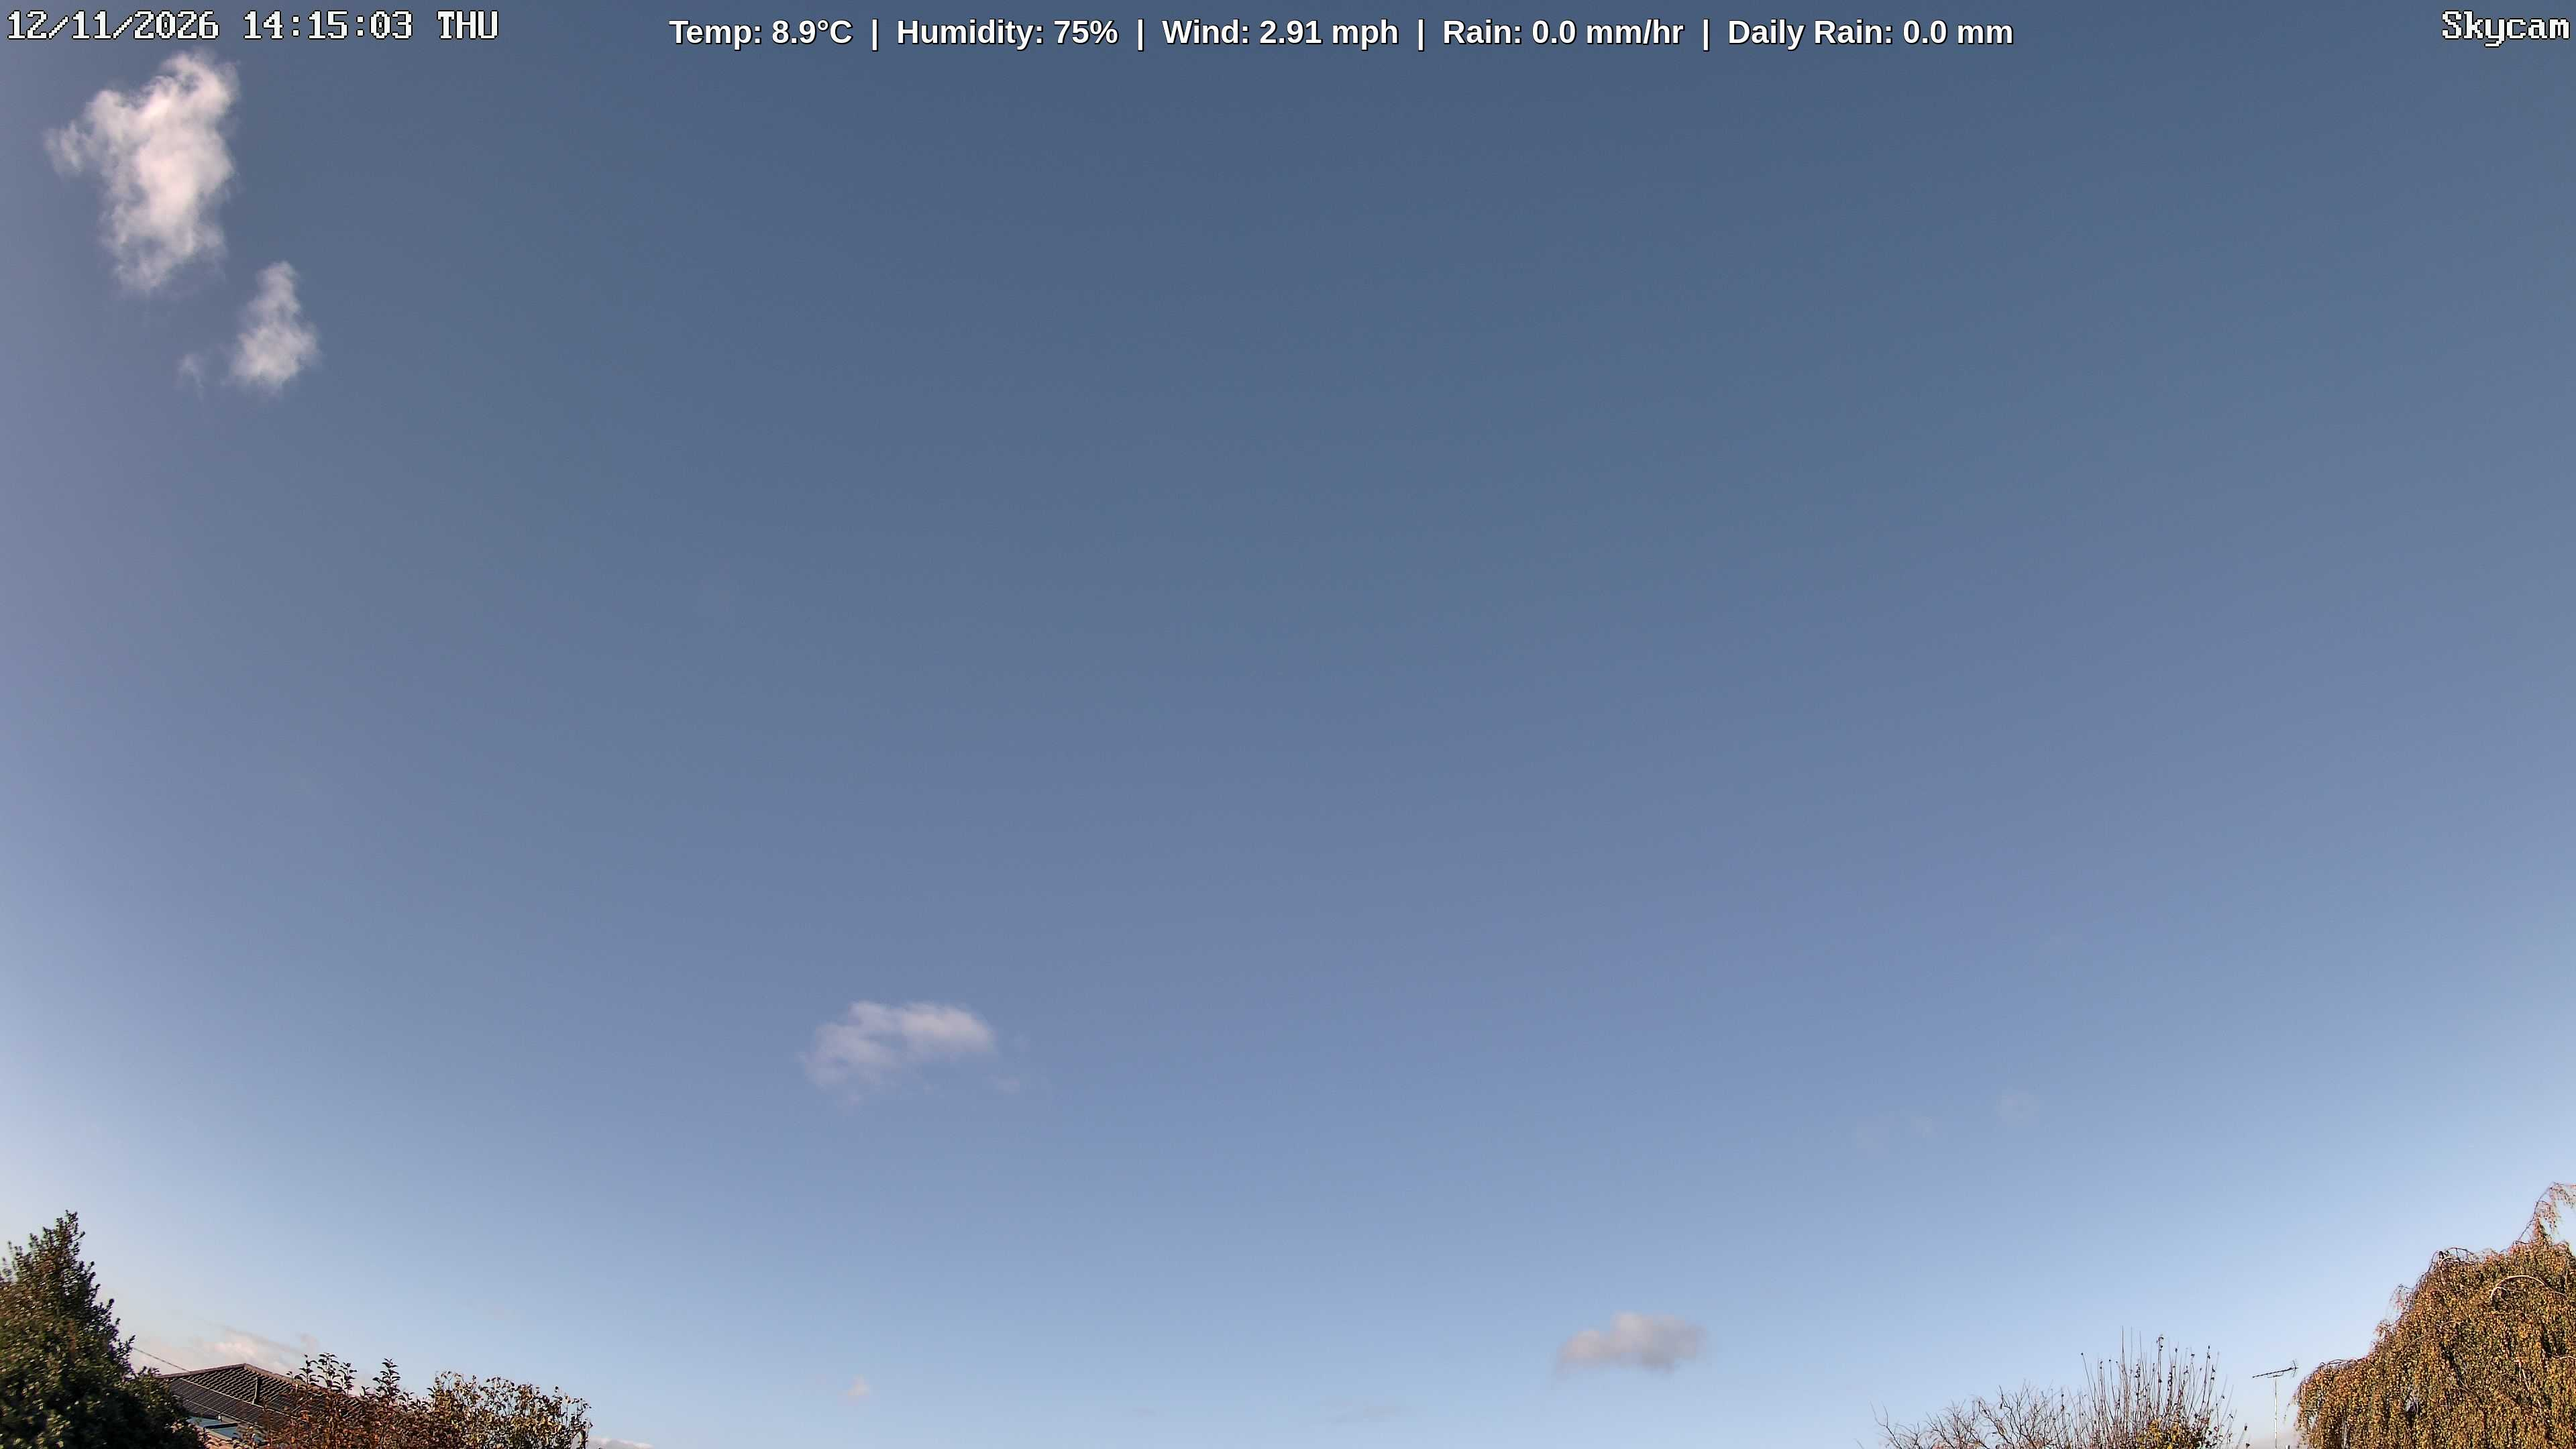
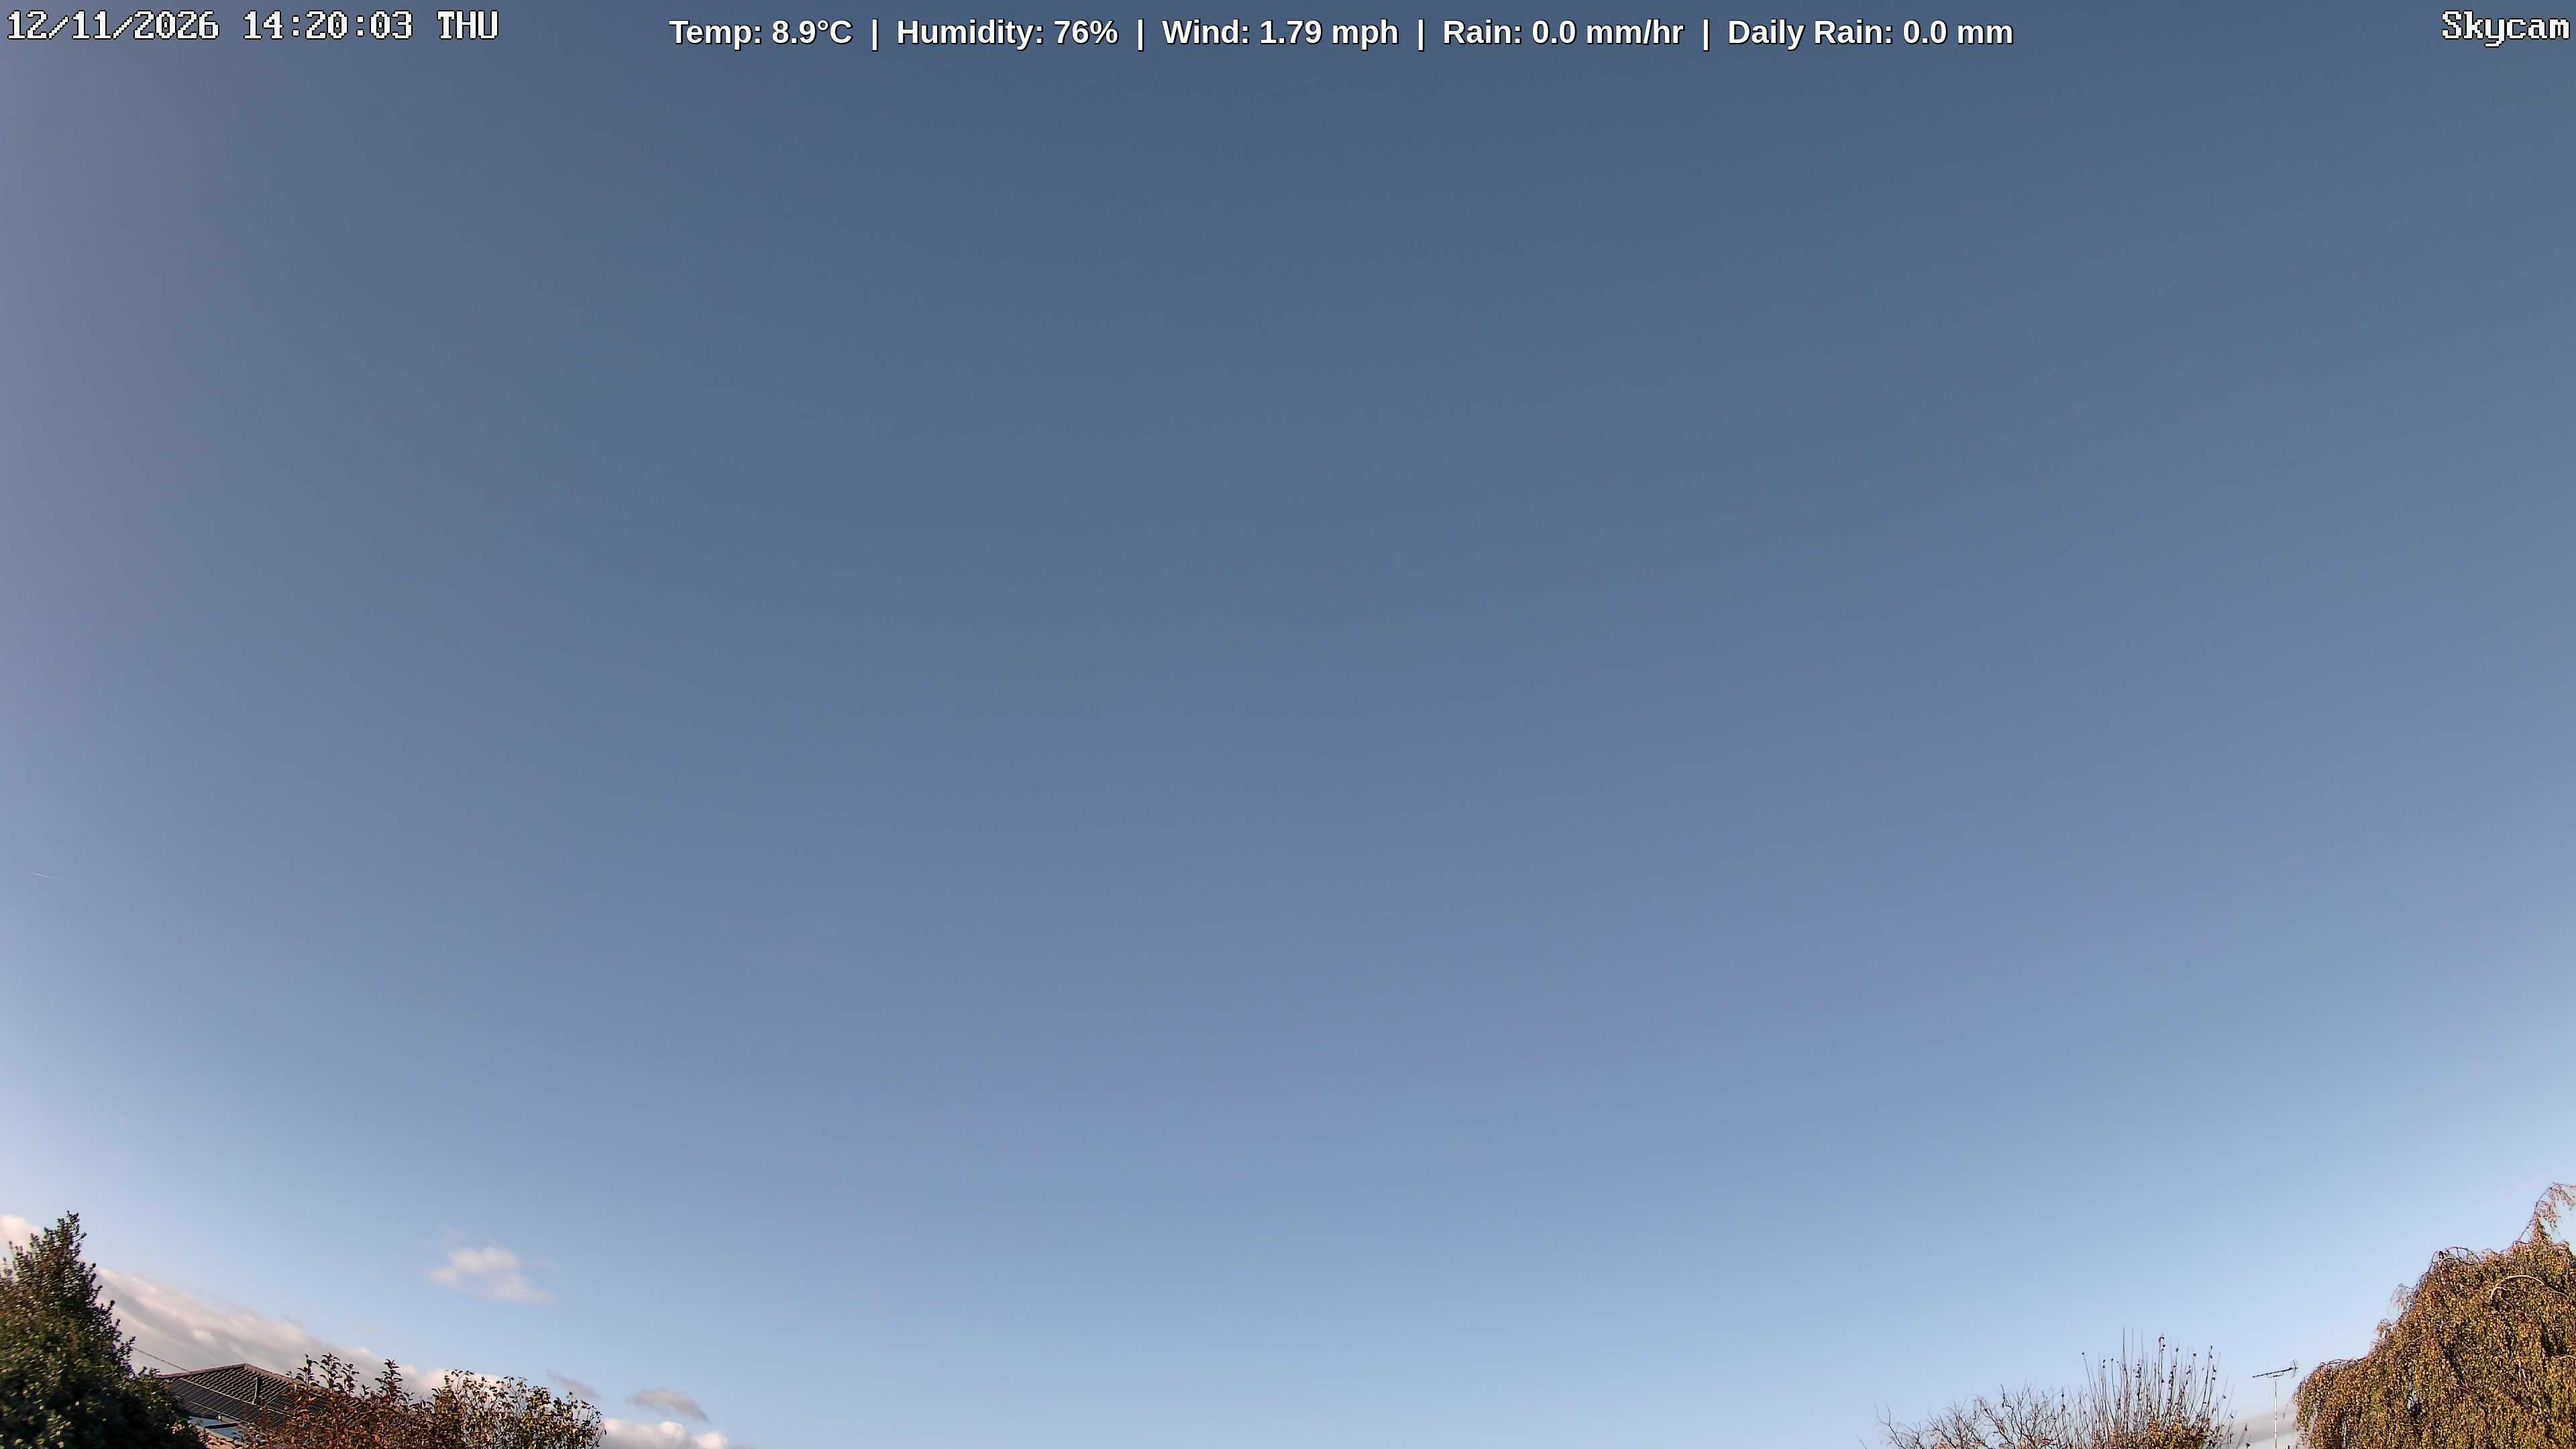
Update weather cam image with synchronized dual-layer weather metrics

diff --git a/index.html b/index.html
@@ -32,7 +32,7 @@
 </head>
 <body>
     <img id="weathercam" alt="Live Weather Snapshot">
-    <div class="banner">Temp: 8.9°C  |  Humidity: 75%  |  Wind: 2.91 mph  |  Rain: 0.0 mm/hr  |  Daily Rain: 0.0 mm</div>
+    <div class="banner">Temp: 8.9°C  |  Humidity: 76%  |  Wind: 1.79 mph  |  Rain: 0.0 mm/hr  |  Daily Rain: 0.0 mm</div>
 
     <script>
         // Shatter mobile cache engines by appending a live unique runtime timestamp 
